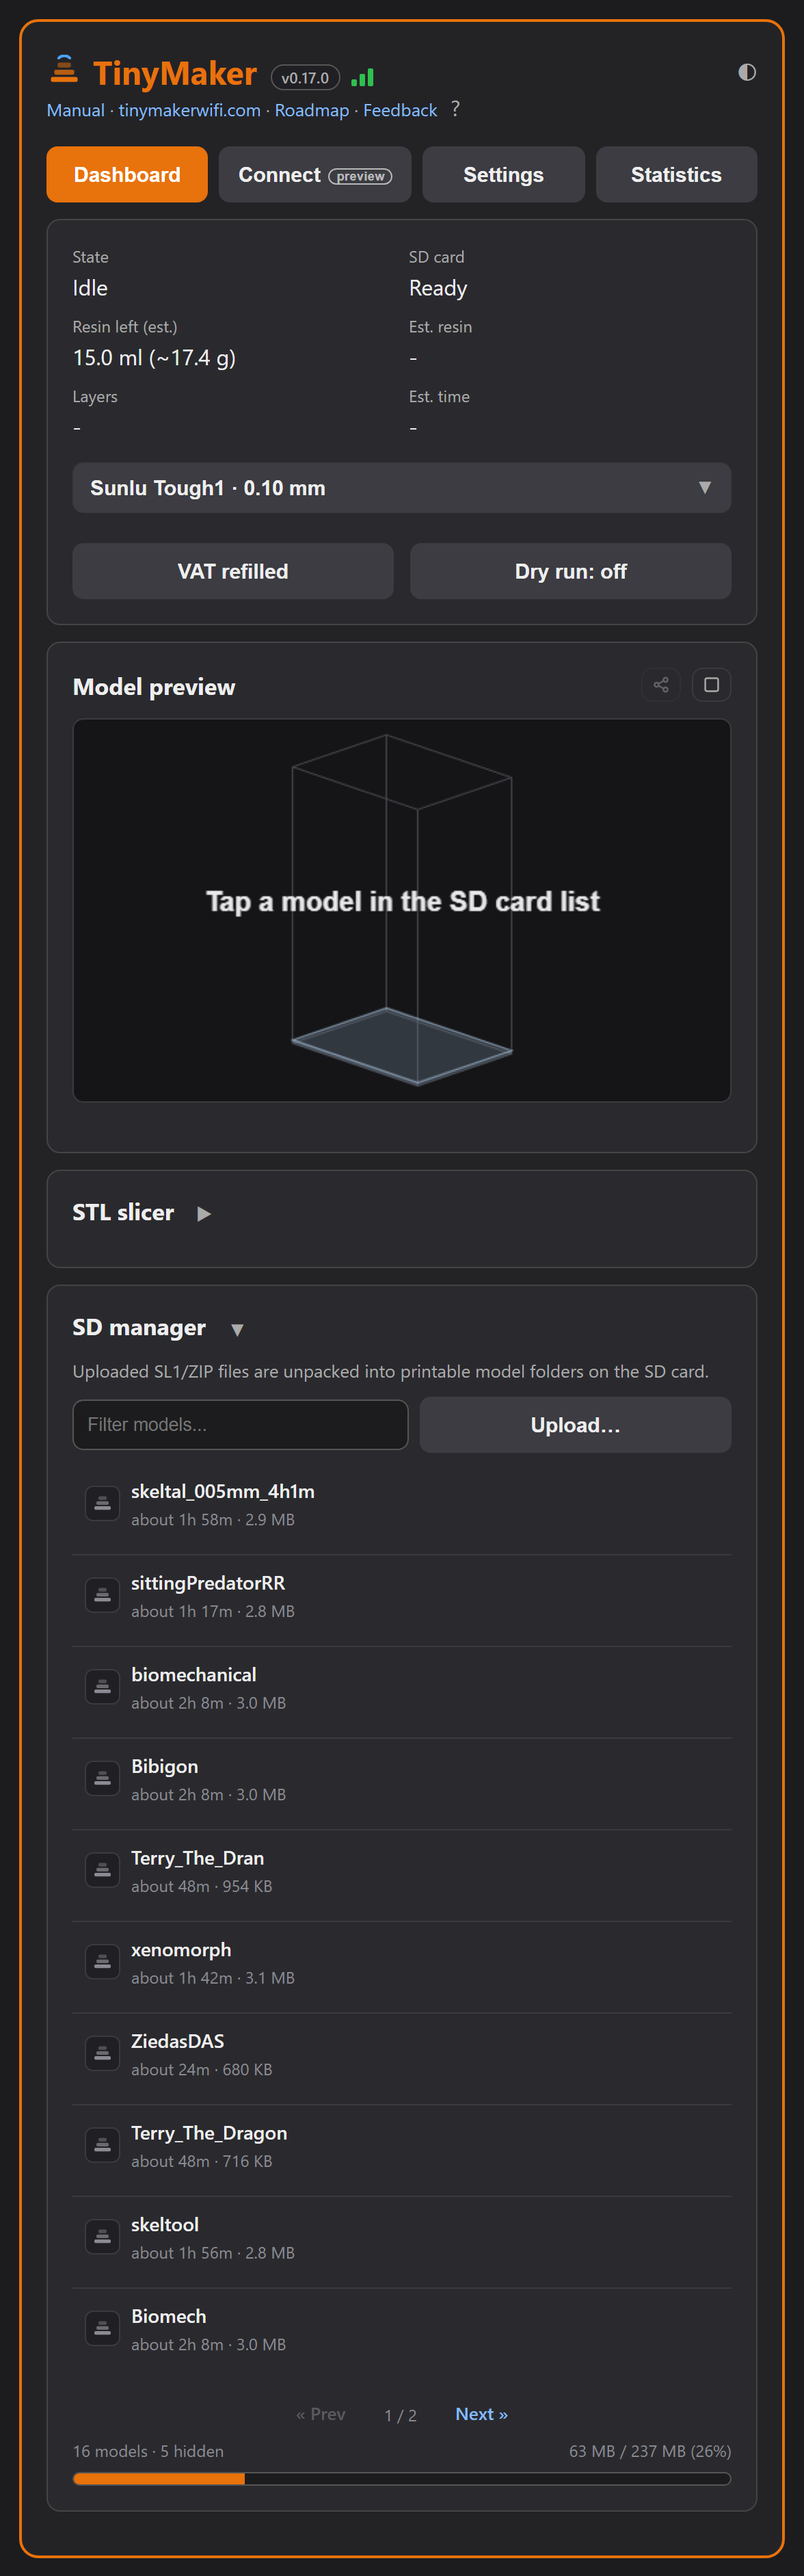
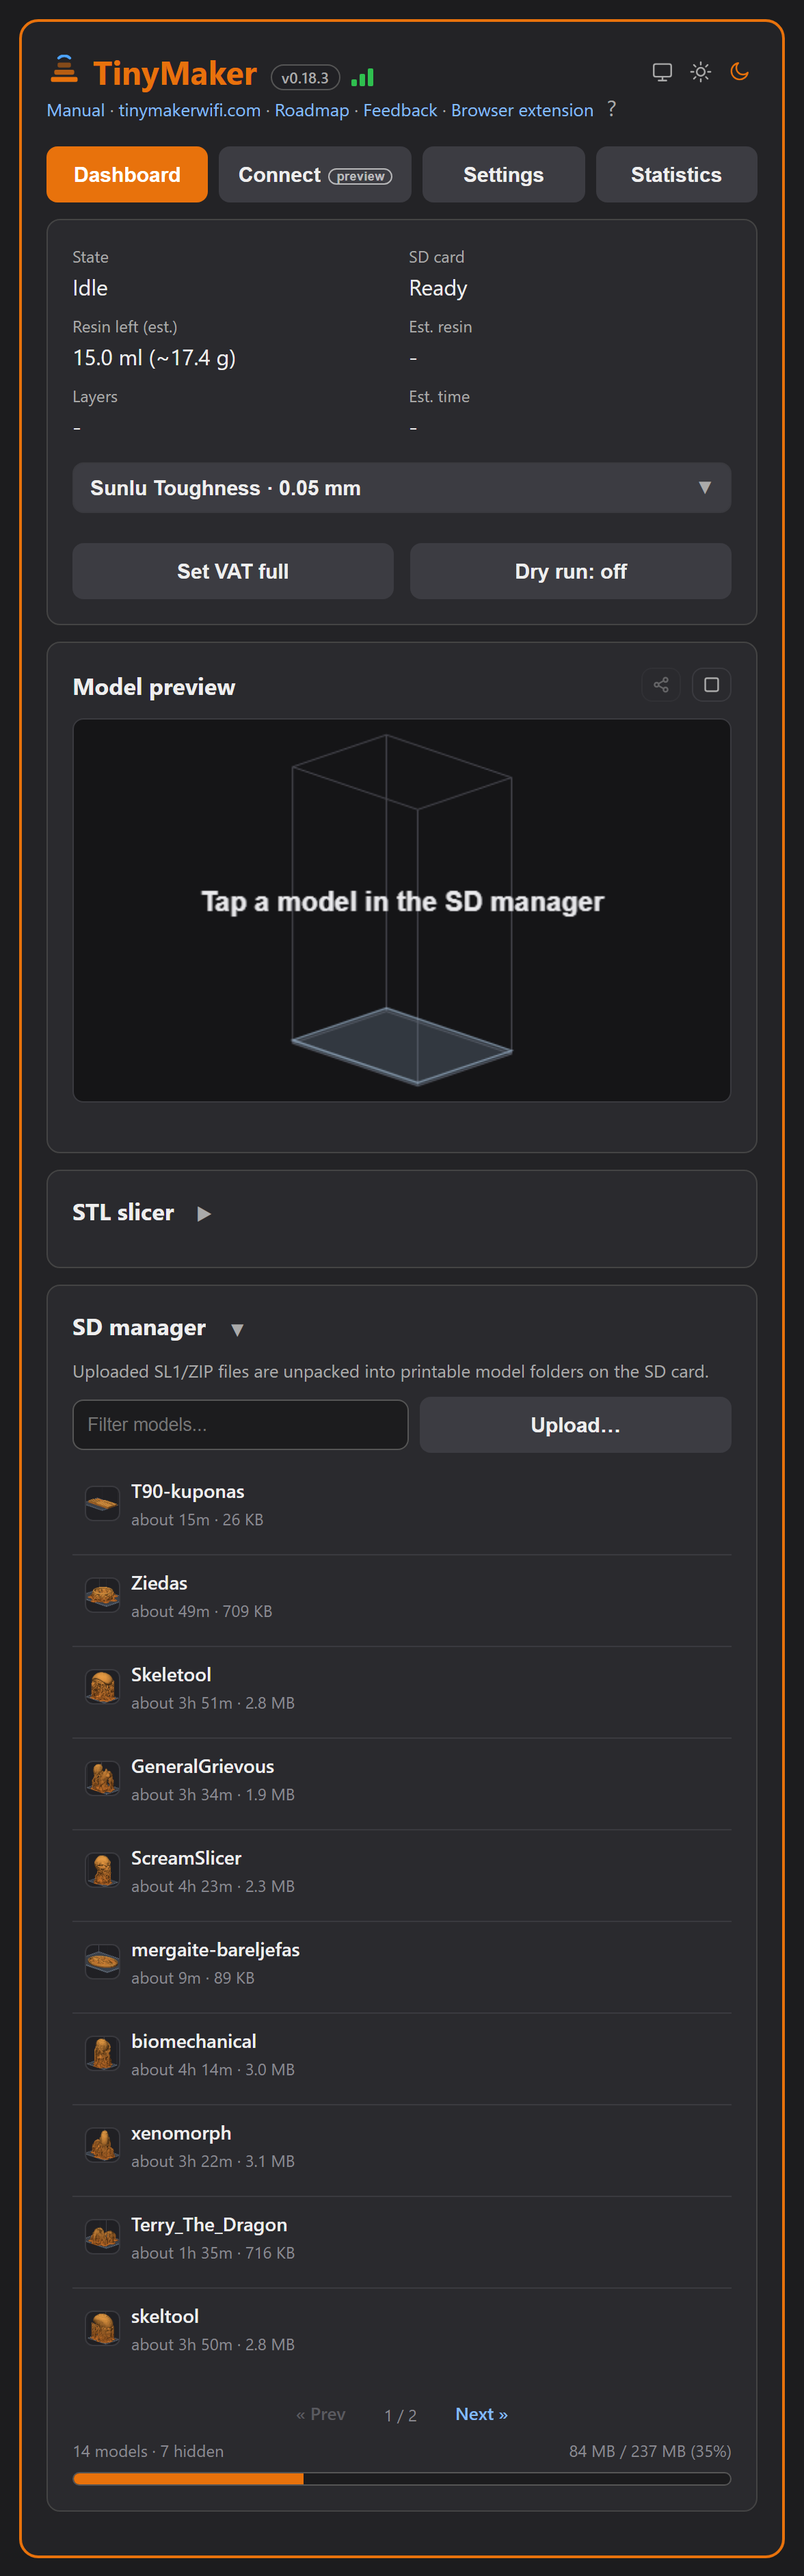
release 0.18.3: version, changelog, docs and screenshots (#241)
* release: 0.18.3 (version, changelog, manual badge)

Theme switcher (system/light/dark), the Browser extension link that hides
itself once installed, owner links from links.json on SD, and the getting-
started guide without a PrusaSlicer requirement. Merged earlier (#223, #225,
#226, #232); this only bumps FIRMWARE_VERSION in both envs, the manual badge
and footer, and adds the changelog entry.

* changelog 0.18.3: crash reports say which build crashed

* changelog 0.18.3: intro mentions the crash report fix

* docs 0.18.3: theme icons, Browser extension link and SD links in the manual; mockups

- manual: the ◐ crescent is gone - three icons pick System / Light / Dark; the
  Browser extension link and links.json on SD are described
- README: light / dark / system theme
- refresh_mockups.py: printer-screens update tile shows Latest v0.18.3

* docs 0.18.3: dashboard screenshots retaken on 0.18.3

The seven real dashboard shots (idle, wide, printing, backup, update pane,
resin recipe) come from build 5ba092e: three theme icons and the Browser
extension link in the header. Sizes match the previous frames except the
printing and recipe shots, which only changed height, so every max-width
stays at the 69 % scale.

* docs: the two wide manual images fit the text column (712 px, not 728)

The frame and the section both pad 26 px, so the column is 712 px and
printer-screens and web-dashboard stuck out 16 px on the right.
[…]

diff --git a/docs/manual/index.html b/docs/manual/index.html
@@ -78,10 +78,10 @@
   @media(max-width:560px){nav.toc ol{columns:1}}
   nav.toc li{margin:3px 0; break-inside:avoid}
 
-  section{
-    background:var(--card); border:1px solid var(--border); border-radius:14px;
-    padding:6px 26px 24px; margin:22px 0; box-shadow:var(--shadow);
-  }
+  /* The orange frame is the page's one card; a section is only separated by a line,
+     so a note inside it is the second level, not the third (V 2026-09-24). */
+  section{padding:6px 0 24px; margin:0; border-top:1px solid var(--border)}
+  section:first-of-type{border-top:none}
   h2.sec{
     font-size:1.5rem; margin:26px 0 4px; padding-top:14px; letter-spacing:-.01em;
     scroll-margin-top:16px;
@@ -171,7 +171,7 @@ window.addEventListener('DOMContentLoaded',function(){window.tmSyncSite();tmWire
 </div>
 
 <header class="hero">
-  <span class="badge">User Manual · v0.18.2</span>
+  <span class="badge">User Manual · v0.18.3</span>
   <h1>TinyMakerWifi</h1>
   <p class="tag">WiFi, wireless upload &amp; over-the-air updates for the TinyMaker resin printer</p>
   <p class="author">by <b>Viktoras Šidlauskas</b> · <a href="https://github.com/slibbinas">@slibbinas</a> · <a href="https://tinymakerwifi.com">tinymakerwifi.com</a></p>
@@ -319,7 +319,7 @@ window.addEventListener('DOMContentLoaded',function(){window.tmSyncSite();tmWire
 <section>
   <h2 class="sec" id="screens"><span class="num">5</span>The printer screens</h2>
   <p>The small status display drives the whole on-printer interface - WiFi setup, upload progress, the resin estimate, the device toggles and self-update. Three buttons: <kbd>Back</kbd>, <kbd>Up</kbd> and <kbd>OK</kbd>. A green (connected) or grey (offline) dot on the main menu shows WiFi status.</p>
-  <img class="shot" style="max-width:728px" src="images/printer-screens.png" alt="A montage of the TinyMakerWifi printer screens: boot, WiFi setup, printing, the Advanced groups, unpacking an upload, the Statistics counters, the plate notes at both ends of the travel and the resin-not-set screen">
+  <img class="shot" style="max-width:712px" src="images/printer-screens.png" alt="A montage of the TinyMakerWifi printer screens: boot, WiFi setup, printing, the Advanced groups, unpacking an upload, the Statistics counters, the plate notes at both ends of the travel and the resin-not-set screen">
   <p>The <b>System</b> menu is where the new features live: <b>WiFi Info</b>, <b>Advanced</b> (device toggles, grouped into Network / Resin / Display), <b>Statistics</b> (lifetime counters and the last boot/crash record), <b>Update</b> (firmware) and <b>About</b> (version and build info). The full item-by-item reference is in <a href="#advanced">System menu reference</a>.</p>
 </section>
 
@@ -504,7 +504,8 @@ window.addEventListener('DOMContentLoaded',function(){window.tmSyncSite();tmWire
 
 <section>
   <h2 class="sec" id="dashboard"><span class="num">11</span>The web dashboard</h2>
-  <p>Open the printer’s IP address in any browser for the full dashboard: live print status and controls, SD-card management with one-click start/import, device settings and firmware updates - in tabs styled to match the printer. The <b>◐ crescent</b> next to the <i>Manual</i> link switches between the <b>light and dark theme</b> (your choice sticks per browser), and small <b>?</b> marks next to the tricky settings open short explanations.</p>
+  <p>Open the printer’s IP address in any browser for the full dashboard: live print status and controls, SD-card management with one-click start/import, device settings and firmware updates - in tabs styled to match the printer. Three small icons at the top right pick the <b>theme</b>: <i>System</i> follows your phone or computer, <i>Light</i> and <i>Dark</i> stay put (your choice sticks per browser, and the Manual, Feedback and Roadmap links open in the same theme). Small <b>?</b> marks next to the tricky settings open short explanations.</p>
+  <p>The <b>Browser extension</b> link next to <i>Feedback</i> leads to the TinyMaker browser extension (print progress on the toolbar) and disappears once the extension is installed. A <code>links.json</code> file on the SD card adds your own links to that row - see the <a href="https://github.com/slibbinas/TinyMakerWifi/blob/main/docs/api.md">API notes</a> for the format.</p>
   <div class="note">🧪 No printer at hand? <a href="https://tinymakerwifi.com/demo/">Try the dashboard live</a> - the same UI driving a simulated printer: start a print, watch the 3D progress, poke through Settings.</div>
   <div class="note">💬 The <b>Feedback</b> link in the header opens a 30-second form - what works, what doesn't, what's missing. Photos are welcome (a failed print says more than a paragraph) and your firmware version comes along automatically. No account, and it genuinely steers what gets built next.</div>
   <img class="shot" style="max-width:406px" src="images/dashboard-idle.png" alt="The dashboard in a narrow window: one column, with the status card, the print preview and the SD manager stacked">
@@ -513,7 +514,7 @@ window.addEventListener('DOMContentLoaded',function(){window.tmSyncSite();tmWire
   <img class="shot" style="max-width:406px" src="images/printing-eta.png" alt="The dashboard while printing: status with remaining time and finish-time estimate, print controls and the live 3D progress render">
   <p>That dot is worth understanding, because it explains something that looks like a fault. One ESP32 runs the screen, the motor, the UV LED and this web server, all off a single SD card - so the page is served in the gaps between layer moves. During the peel the printer deliberately answers nothing: a pause there could mark the part. <b>A few seconds of amber is the printer working, not the page hanging.</b> How long the dashboard waits follows the print - the longest exposure plus 10 seconds. If your phone or laptop reaches the printer through a slow link such as a WiFi extender and the dashboard keeps saying the printer answers slowly, give it more time under Settings → Network → <b>Wait while printing</b> (kept in that browser only; 0 = automatic). The SD card is locked for the same reason - uploads and file actions come back when the print ends, and the model list stays readable throughout.</p>
   <p>On a larger screen it spreads into two columns:</p>
-  <img class="shot" style="max-width:728px" src="images/web-dashboard.png" alt="The TinyMakerWifi web dashboard on a wide screen: status and model preview on the left, STL slicer and SD manager on the right">
+  <img class="shot" style="max-width:712px" src="images/web-dashboard.png" alt="The TinyMakerWifi web dashboard on a wide screen: status and model preview on the left, STL slicer and SD manager on the right">
   <p>New to the printer? A dismissible <b>Getting Started</b> checklist on the dashboard walks you through the first steps (WiFi → slicer → first model → first print → exposure calibration → integrations) - the printer ticks steps off by itself where it can.</p>
   <p><b>Put it on your phone's home screen:</b> open the dashboard in the phone browser and pick <i>Add to Home screen</i> (Chrome: the ⋮ menu; iPhone Safari: Share → <i>Add to Home Screen</i>). You get the printer's icon on the home screen, and on iPhone it opens fullscreen like an app. (A browser "install" banner won't appear - the printer serves plain HTTP on your LAN - but the shortcut works the same.)</p>
 
@@ -777,7 +778,7 @@ window.addEventListener('DOMContentLoaded',function(){window.tmSyncSite();tmWire
   </ul>
   <img class="shot" style="max-width:378px" src="images/firmware-update-page.png" alt="The dashboard Settings > Update pane: installed vs the stable channel, version picker, file upload and the Slicer module card">
   <p>Two comforts while updating: the printer also <b>checks by itself</b> - shortly after WiFi connects at boot it looks for a newer version and shows <i>“Update available - Install / Later”</i> on the screen (choosing Later offers to turn the check off; the switch lives in System → Advanced → Network → Boot update and in dashboard Settings). And when you start an install from the browser, the dashboard locks under an <b>“Updating firmware”</b> overlay and <b>reloads itself</b> when the printer is back - no guessing whether it finished.</p>
-  <p><b>The printer checks who it is talking to.</b> Before it installs anything from the internet it verifies GitHub’s certificate, and it only takes files from this project’s own release folder. If that check fails - for example on a network that intercepts secure connections - nothing is installed: the version check fails, and an install from the dashboard says it <i>could not verify GitHub</i>. <b>Choose &amp; flash&hellip;</b> and USB flashing still work.</p>
+  <p><b>The printer checks what it installs.</b> Every release carries our own signature. Before an update from the internet is installed, the printer checks that signature against a key built into its firmware and activates the download only if it matches byte for byte. So it no longer matters which certificate GitHub shows in your region or what the printer’s clock says. If the check fails, nothing is installed and the printer says the update was refused. <b>Choose &amp; flash&hellip;</b> (a file you pick) and USB flashing still work.</p>
   <div class="note">✅ <b>Don’t worry about a failed update.</b> The printer keeps two firmware copies (dual OTA partition), so a failed flash falls back to the previous one. Just don’t power off mid-update.</div>
   <p>The same Settings → Update pane also holds the <b>Slicer module</b> card (shown when the <a href="#dashboard">browser slicer</a> is switched on): the version on the printer vs the latest published, an <b>Install latest</b> button and a version picker. It updates independently of the firmware - a slicer update never reflashes the printer.</p>
 
@@ -925,7 +926,7 @@ window.addEventListener('DOMContentLoaded',function(){window.tmSyncSite();tmWire
 </div>
 
 <footer>
-  <p>TinyMakerWifi · User Manual · v0.18.2 · by Viktoras Šidlauskas · <a href="https://tinymakerwifi.com">tinymakerwifi.com</a><br>
+  <p>TinyMakerWifi · User Manual · v0.18.3 · by Viktoras Šidlauskas · <a href="https://tinymakerwifi.com">tinymakerwifi.com</a><br>
   Based on the open-source <a href="https://tinymaker3d.com/">TinyMaker 3D printer</a>. Firmware MIT-licensed.</p>
 </footer>
 </body>

diff --git a/README.md b/README.md
@@ -38,7 +38,7 @@ Modified and extended firmware for the open-source **TinyMaker** MSLA resin 3D p
 * **Safe model uploads** - uploads unpack into a temporary folder and replace the old model only after unpacking succeeds; a name conflict asks *Replace / Rename / Cancel* (PrusaSlicer re-uploads just replace) *(contributed by [@Briadark](https://github.com/Briadark))*
 * **3D print progress** - while printing, the dashboard shows the same 3D view filling up in real time: the printed part in color, the rest as a ghost outline. Zero load on the printer (the browser renders from prefetched layers)
 * **WiFi reset** - from the System menu, or by holding the BACK button while powering on
-* **Web dashboard** - open the printer's IP in a browser: SD manager (upload/delete/start), live print status with pause/resume/stop and finish-time estimate, device config and a dry-run test mode - with a **light/dark theme**, a dismissible **Getting Started** checklist, contextual **?** help next to the tricky settings, an always-on **Model preview** card (remembers the last previewed model) and a **PWA manifest** so the dashboard pins to a phone's home screen with the project icon *(initial version contributed by [@Briadark](https://github.com/Briadark))*
+* **Web dashboard** - open the printer's IP in a browser: SD manager (upload/delete/start), live print status with pause/resume/stop and finish-time estimate, device config and a dry-run test mode - with a **light / dark / system theme**, a dismissible **Getting Started** checklist, contextual **?** help next to the tricky settings, an always-on **Model preview** card (remembers the last previewed model) and a **PWA manifest** so the dashboard pins to a phone's home screen with the project icon *(initial version contributed by [@Briadark](https://github.com/Briadark))*
 * **Power-loss resume** - a checkpoint on the SD card lets the printer pick a print back up after an outage instead of starting over, or safely lift the plate off a stuck print (up only, never into the vat). Answer the prompt at the printer **or from the dashboard on your phone** - a first for a resin printer in this class *(checkpoint engine contributed by [@Tann2019](https://github.com/Tann2019))*
 * **MQTT / Home Assistant** - optional integration with auto-discovery: print state, layers, resin used, **resin left + low-resin alert**, run/remaining time as HA sensors
 * **Telegram, WhatsApp or Discord notifications** - the printer messages you when a print **finishes** (with time and resin used), **pauses for low resin**, or is **canceled**. Pick one channel: a Telegram bot, WhatsApp through the free CallMeBot gateway, or a Discord channel webhook - each with inline **?** setup help and a *Send test* button. *(Telegram is tested daily; WhatsApp and Discord ship untested - they ride on your own CallMeBot key or channel webhook, so the only test that proves anything is yours. Reports welcome, working or not.)*
@@ -359,7 +359,7 @@ Three ways to update:
 * **For developers:** PlatformIO OTA - open `System → Update` on the printer (this path keeps the strict screen gate), then select the `env:tinymaker-ota` environment and Upload goes over WiFi.
 * **The browser slicer updates separately.** As long as the slicer is on, the same Update tab holds a **Slicer module** card - the version on the printer’s SD card vs the latest published, with its own install button and version picker. A slicer update copies a few megabytes to the card; the printer never reboots for it, and a running print is never interrupted.
 
-The printer checks GitHub's certificate before it installs anything, and only takes files from this project's own release folder. If that check fails - for example on a network that intercepts HTTPS - nothing is installed: the version check fails, and an install from the dashboard says it could not verify GitHub. **Choose & flash…** and USB flashing still work.
+Every release carries our own signature. Before an update from the internet is installed, the printer checks that signature against a key built into its firmware and activates the download only if it matches byte for byte - so it no longer matters which certificate GitHub shows in your region or what the printer's clock says. If the check fails, nothing is installed and the printer says the update was refused. **Choose & flash…** (a file you pick) and USB flashing still work.
 
 Do not power off during an update - and don't worry too much either: the dual OTA partition keeps the previous firmware if the update fails.
 

diff --git a/CHANGELOG.md b/CHANGELOG.md
@@ -13,6 +13,30 @@ the upstream TinyMaker3D firmware is `1.0.2`. Format follows
 Credits: features are by **Viktoras Šidlauskas ([@slibbinas](https://github.com/slibbinas))**
 unless noted. Community contributors are tagged inline.
 
+## [0.18.3] - 2026-09-24
+
+Small dashboard improvements and more useful crash reports.
+
+- **Light, dark or system theme.** Three icons in the dashboard header - *System* follows
+  your phone or computer, *Light* and *Dark* stay put. The Manual, Feedback and Roadmap
+  links open in the same theme.
+- **"Browser extension" link in the header.** It leads to the TinyMaker browser extension
+  (print progress on the toolbar) and disappears by itself once the extension is installed.
+  The extension itself (0.1.4, separate download) now follows your theme too.
+- **Your own links in the header.** Put a `links.json` file on the SD card and its entries
+  show up next to Manual and Feedback - handy for a shop, a school or a maker who wants
+  their support page or resin list one tap away. Without the file nothing changes.
+  See [the API notes](docs/api.md) for the format.
+- **Getting started no longer requires PrusaSlicer.** The step now reads *Slice - built-in
+  slicer or PrusaSlicer*: the browser slicer in the dashboard is enough, PrusaSlicer stays
+  an option.
+- **Crash reports now say exactly which build crashed.** A report carries a fingerprint
+  of the firmware build that crashed and of the one sending it, so a self-built copy is
+  told apart from a release. Its reason, layer and time are now that crash's own - before,
+  a printer that had once died mid-print repeated that old event in every later report.
+  The README and manual now also describe the crash reports, which share the usage-ping
+  switch.
+
 ## [0.18.2] - 2026-09-22
 
 The boot crash the telemetry found is fixed.
